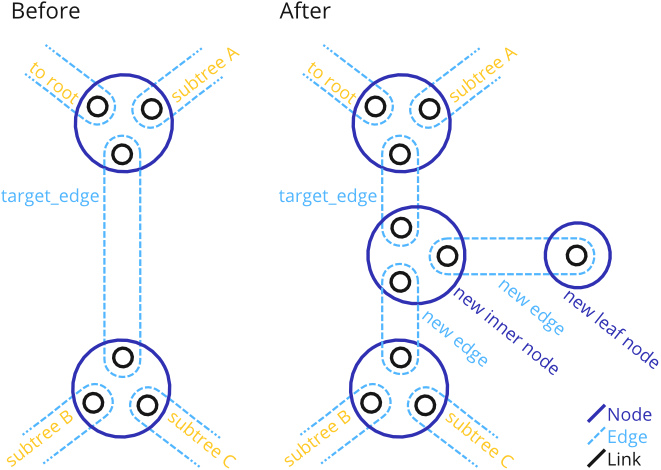
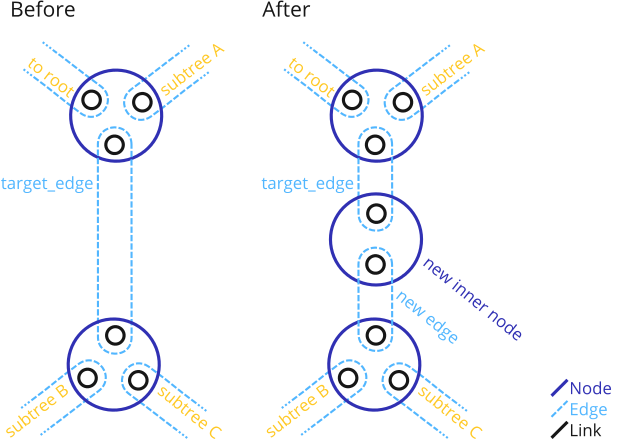
Rename and add tree manipulation functions for adding nodes

diff --git a/lib/genesis/tree/function/manipulation.hpp b/lib/genesis/tree/function/manipulation.hpp
@@ -3,7 +3,7 @@
 
 /*
     Genesis - A toolkit for working with phylogenetic data.
-    Copyright (C) 2014-2017 Lucas Czech
+    Copyright (C) 2014-2018 Lucas Czech and HITS gGmbH
 
     This program is free software: you can redistribute it and/or modify
     it under the terms of the GNU General Public License as published by
@@ -84,13 +84,9 @@ class TreeLink;
 TreeEdge& add_new_node( Tree& tree, TreeNode& target_node );
 
 /**
- * @brief Add a new @link TreeNode Node@endlink as a leaf to an existing @link TreeEdge Edge@endlink,
- * by also adding a new Node in the middle of that Edge.
+ * @brief Add a new @link TreeNode Node@endlink that splits an existing @link TreeEdge Edge@endlink.
  *
- * This function is an extension of add_new_node( Tree&, TreeNode& ). Before adding the new leaf
- * node, it first adds another Node that splits the given `target_edge` into two edges, and then
- * adds the leaf to it.
- *
+ * This function adds a new Node that splits the given `target_edge` into two edges.
  * Thus, the procedure is as shown:
  * ![The Tree before and after adding the new Node.](tree/add_new_node_edge.png)
  *
@@ -105,9 +101,43 @@ TreeEdge& add_new_node( Tree& tree, TreeNode& target_node );
  * the branch lengths of all three affected edges might have to be changed to the desired values
  * after calling this function.
  *
+ * @return The function returns the newly created TreeNode  .
+ */
+TreeNode& add_new_node( Tree& tree, TreeEdge& target_edge );
+
+/**
+ * @brief Add a new @link TreeNode Node@endlink as a leaf to an existing @link TreeEdge Edge@endlink,
+ * by also adding a new Node in the middle of that Edge.
+ *
+ * This function is a combination of add_new_node( Tree&, TreeNode& ) and add_new_node( Tree&, TreeEdge& ).
+ * Before adding the new leaf node, it first adds another Node that splits the given `target_edge`
+ * into two edges, and then adds the leaf to it.
+ *
+ * Thus, the procedure is as shown:
+ * ![The Tree before and after adding the new Nodes.](tree/add_new_leaf_node.png)
+ *
+ * After the function, the `target_edge` with all its data ends up on the to-root side of the
+ * new inner node.
+ *
+ * For details of how the data pointers are handled, see add_new_node( Tree&, TreeNode& ). This
+ * function behaves in a similar way. The data objects of the new nodes and edges are
+ * default-constructed objects of the same type as the `target_edge` and its primary node.
+ *
+ * Be aware that the data of `target_edge` is not changed. Thus, in trees with DefaultEdgeData,
+ * the branch lengths of all three affected edges might have to be changed to the desired values
+ * after calling this function.
+ *
  * @return The function returns the newly created TreeEdge that leads to the new leaf node.
  */
-TreeEdge& add_new_node( Tree& tree, TreeEdge& target_edge );
+TreeEdge& add_new_leaf_node( Tree& tree, TreeEdge& target_edge );
+
+/**
+ * @brief Add a new @link TreeNode Node@endlink that splits an existing @link TreeEdge Edge@endlink,
+ * and root the tree on that new Node.
+ *
+ * The function combines add_new_node( Tree&, TreeEdge& ) and reroot( Tree&, TreeNode& ).
+ */
+TreeNode& add_root_node( Tree& tree, TreeEdge& target_edge );
 
 // =================================================================================================
 //     Rerooting

diff --git a/lib/genesis/placement/function/tree.cpp b/lib/genesis/placement/function/tree.cpp
@@ -176,7 +176,7 @@ tree::Tree labelled_tree(
         PlacementPair const& placement_pair
     ) {
         // Add the new edges to the tree and get all necessary edges.
-        auto& pendant_edge  = tree::add_new_node( tree, edge );
+        auto& pendant_edge  = tree::add_new_leaf_node( tree, edge );
         auto& proximal_edge = pendant_edge.primary_link().next().edge();
         auto& distal_edge   = pendant_edge.primary_link().next().next().edge();
 
@@ -237,7 +237,7 @@ tree::Tree labelled_tree(
             for( auto const& pquery_name : placement_pair.pquery->names() ) {
 
                 // Create the new edges.
-                auto& pendant_edge  = tree::add_new_node( tree, *insertion_edge );
+                auto& pendant_edge  = tree::add_new_leaf_node( tree, *insertion_edge );
                 auto& proximal_edge = pendant_edge.primary_link().next().edge();
                 auto& distal_edge   = pendant_edge.primary_link().next().next().edge();
 
@@ -302,7 +302,7 @@ tree::Tree labelled_tree(
         // Add a new leaf node to the tree, attached to the middle of the given edge (this spltis
         // the edge in half and adds one more node there). This will be the base to which we then
         // attach all further nodes, multifurcating.
-        auto& base_edge = tree::add_new_node( tree, edge );
+        auto& base_edge = tree::add_new_leaf_node( tree, edge );
         auto& pri_edge  = base_edge.primary_link().next().edge();
         auto& sec_edge  = base_edge.primary_link().next().next().edge();
 

diff --git a/lib/genesis/tree/function/manipulation.cpp b/lib/genesis/tree/function/manipulation.cpp
@@ -127,7 +127,7 @@ TreeEdge& add_new_node( Tree& tree, TreeNode& target_node )
     return *con_edge;
 }
 
-TreeEdge& add_new_node( Tree& tree, TreeEdge& target_edge )
+TreeNode& add_new_node( Tree& tree, TreeEdge& target_edge )
 {
     // Basic check.
     if( ! belongs_to( target_edge, tree ) ) {
@@ -195,7 +195,21 @@ TreeEdge& add_new_node( Tree& tree, TreeEdge& target_edge )
     target_edge.secondary_link().reset_edge( sec_edge );
     target_edge.reset_secondary_link( pri_link );
 
-    return add_new_node( tree, *mid_node );
+    return *mid_node;
+}
+
+TreeEdge& add_new_leaf_node( Tree& tree, TreeEdge& target_edge )
+{
+    // First add a node that splits the edge, and then a new leaf node to this one.
+    auto& mid_node = add_new_node( tree, target_edge );
+    return add_new_node( tree, mid_node );
+}
+
+TreeNode& add_root_node( Tree& tree, TreeEdge& target_edge )
+{
+    auto& mid_node = add_new_node( tree, target_edge );
+    reroot( tree, mid_node );
+    return mid_node;
 }
 
 // =================================================================================================

diff --git a/test/src/tree/manipulation.cpp b/test/src/tree/manipulation.cpp
@@ -1,6 +1,6 @@
 /*
     Genesis - A toolkit for working with phylogenetic data.
-    Copyright (C) 2014-2017 Lucas Czech
+    Copyright (C) 2014-2018 Lucas Czech and HITS gGmbH
 
     This program is free software: you can redistribute it and/or modify
     it under the terms of the GNU General Public License as published by
@@ -175,7 +175,7 @@ TEST( TreeManipulation, AddNewNodeEdge )
     ASSERT_NE( nullptr, node );
 
     // Add a node.
-    auto& edge = add_new_node( tree, node->primary_link().edge() );
+    auto& edge = add_new_leaf_node( tree, node->primary_link().edge() );
 
     // Check all indices and validate tree.
     EXPECT_EQ( 10, edge.index() );
